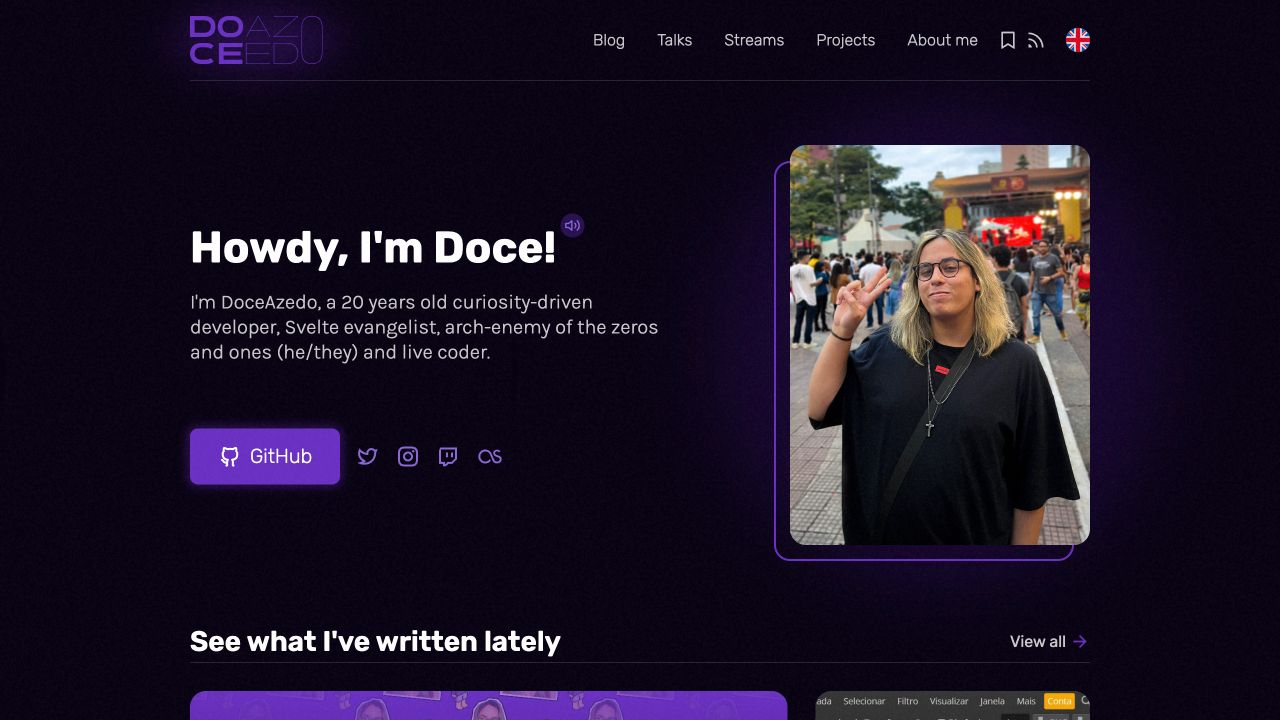
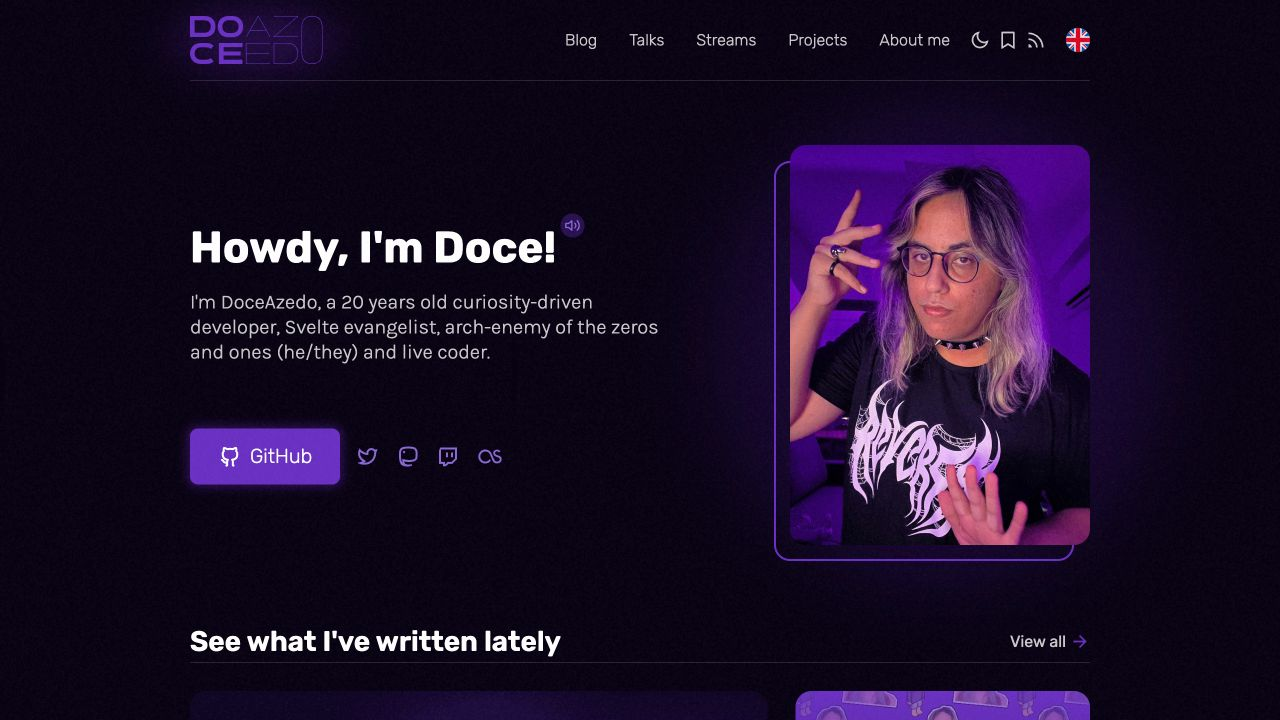
Update blurb selfie 🤳

diff --git a/src/lib/components/blurb/blurb-selfie.svelte b/src/lib/components/blurb/blurb-selfie.svelte
@@ -1,14 +1,15 @@
 <script lang="ts">
   import { browser, dev } from '$app/environment';
   import { LANG } from '$lib/stores';
-  import selfie from '../../../assets/img/me-chinese-new-year.webp';
+  import selfie from '../../../assets/img/me-selfie-v3.webp';
   import selfieRedacted from '../../../assets/img/me-redacted.webp';
   import customCursorImage from '../../../assets/img/pat.gif';
 
   const selfieSrc = dev ? selfieRedacted : selfie;
+  const instagramURL = 'https://instagram.com/doceazedo911';
 
   let customCursorEl: HTMLImageElement;
-  const customCursorSize = 24;
+  const customCursorSize = 40;
 
   const positionCursor = (event: MouseEvent) => {
     if (customCursorEl == null) return;
@@ -17,12 +18,19 @@
   };
 
   if (browser) window.addEventListener('mousemove', (event) => positionCursor(event));
+
+  const openInstagram = () => {
+    // Weird way of doing links, yeah, I know.
+    // But I wanted this to be kinda hidden, so...
+    if (!browser) return;
+    window.open(instagramURL, '_blank')?.focus();
+  };
 </script>
 
-<div class="blurb-selfie">
+<div class="blurb-selfie" on:click={openInstagram} on:keydown>
   <figure class="selfie-wrapper">
     <img class="selfie" src={selfieSrc} alt={$LANG.alt.selfie} />
-    <div class="pat-area" class:is-active={customCursorImage} />
+    <div class="pat-area" class:is-active={customCursorImage} class:is-debug={dev} />
     <img src={customCursorImage} alt="" class="pat-cursor" bind:this={customCursorEl} />
   </figure>
 </div>
@@ -74,11 +82,14 @@
 
     .pat-area
       position: absolute
-      top: 80px
-      left: 130px
-      width: 40px
-      height: 25px
+      top: 10px
+      left: 120px
+      width: 90px
+      height: 70px
       z-index: 10
+
+      &.is-debug
+        border: 1px dashed rgba(red, .25)
 
       &.is-active
         cursor: none
@@ -86,8 +97,8 @@
     .pat-cursor
       position: fixed
       display: none
-      width: 3rem
-      height: 3rem
+      width: 5rem
+      height: 5rem
       pointer-events: none
       z-index: 10
 
